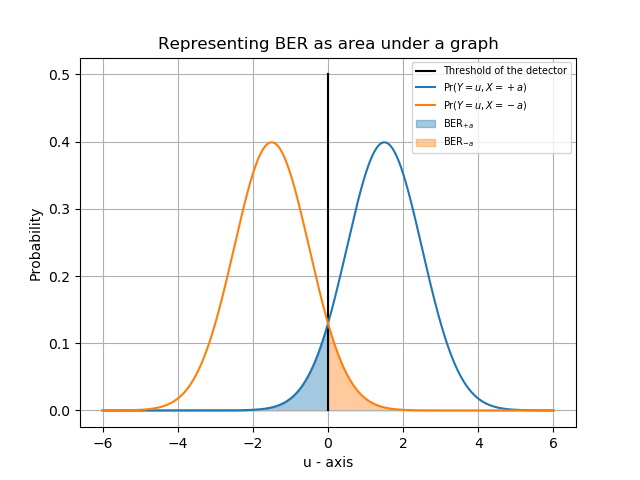
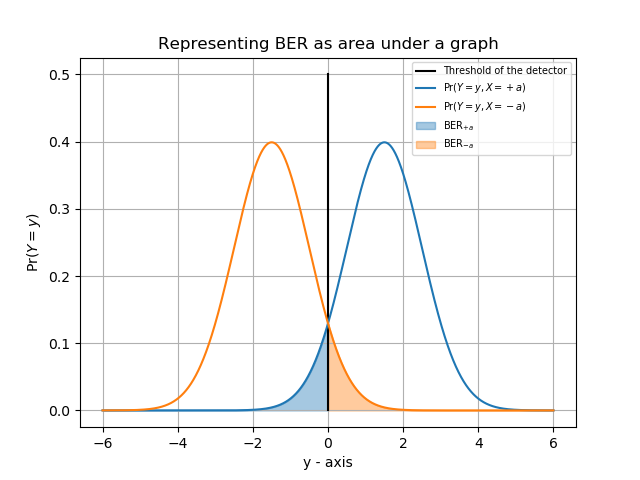
Made changes

diff --git a/Assignment3/Codes/Assignment3_plot.py b/Assignment3/Codes/Assignment3_plot.py
@@ -19,10 +19,10 @@ plt.plot(x,y1.pdf(x))
 plt.plot(x,y2.pdf(x))
 plt.grid()
 
-plt.ylabel("Probability")
-plt.xlabel("u - axis")
+plt.ylabel("$\Pr(Y=y)$")
+plt.xlabel("y - axis")
 plt.fill_between(x,0,y1.pdf(x),where=y1.pdf(x) < y2.pdf(x),color='C0', alpha = 0.4, interpolate=True)
 plt.fill_between(x,0,y2.pdf(x),where=y2.pdf(x) < y1.pdf(x),color='C1', alpha = 0.4, interpolate=True)
-plt.legend(["Threshold of the detector","$\Pr(Y=u , X =+a)$","$\Pr(Y=u , X =-a)$", "BER$_{+a}$", "BER$_{-a}$"], prop={'size': 7})
+plt.legend(["Threshold of the detector","$\Pr(Y=y , X =+a)$","$\Pr(Y=y , X =-a)$", "BER$_{+a}$", "BER$_{-a}$"], prop={'size': 7})
 plt.title("Representing BER as area under a graph") 
 plt.show()

diff --git a/Assignment3/Codes/Assignment3_simulation.py b/Assignment3/Codes/Assignment3_simulation.py
@@ -1,0 +1,11 @@
+from random import gauss
+import numpy as np
+simlen = int(1e7)
+a = 4.2483
+beta = -0.3
+threshold = 0
+mu = 0
+sigma = 1
+s = np.random.normal(mu, sigma, simlen)
+ber = np.size(np.nonzero(s > a))
+print("The total BER is ", ber)
